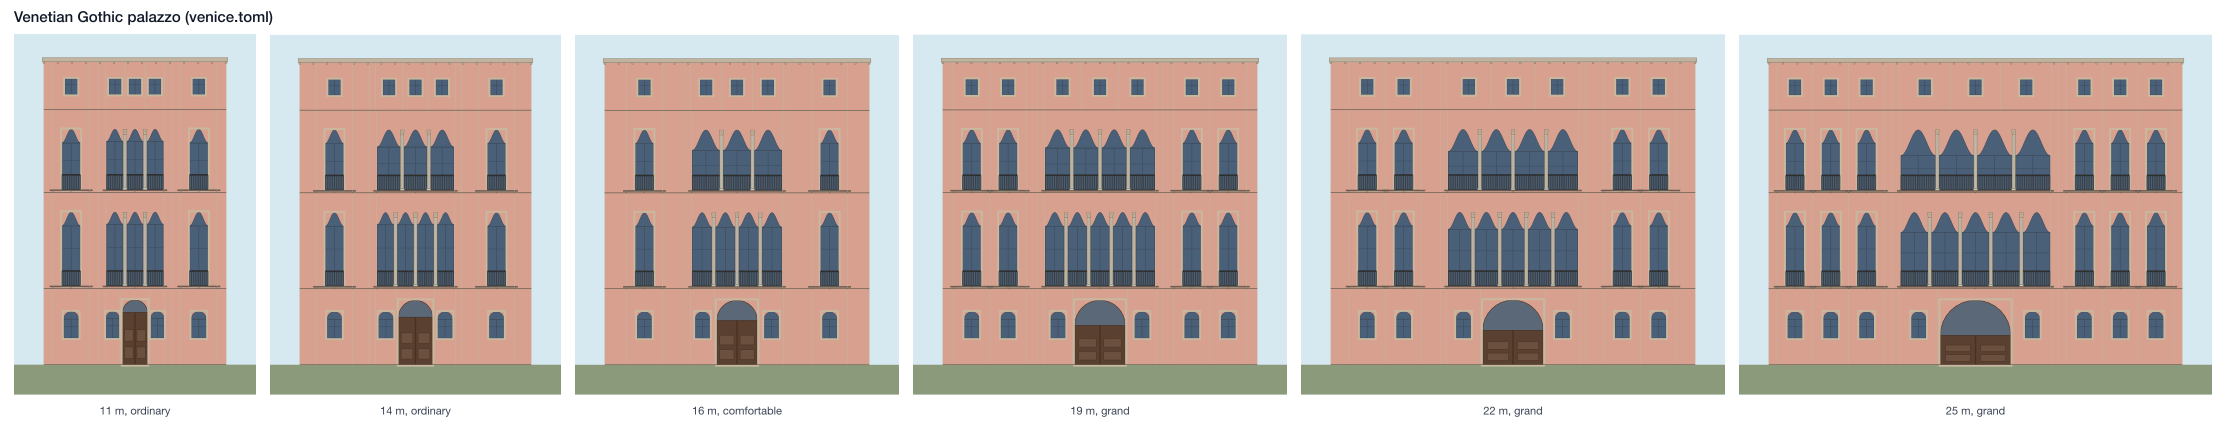
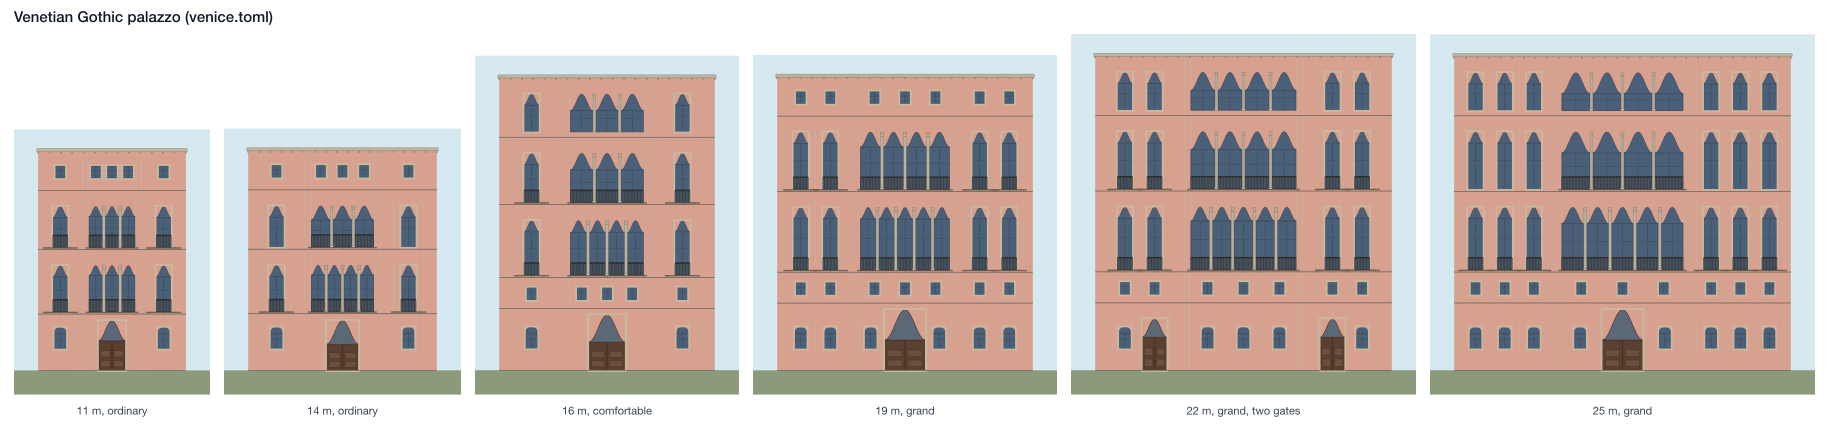
Venice: gates, floors and balconies from photographs of real palazzi
Water gates are 2 to 3 m wide under a pointed arch at any width, and a
wide front shared by two brothers has a gate in each wing. Floor heights
follow the owner's class; richer palazzi add a mezzanine and a full third
floor. Wing balconies on the second noble floor vary by family.

diff --git a/tests/unit/test_styles.py b/tests/unit/test_styles.py
@@ -54,13 +54,35 @@ def test_every_venetian_storey_is_wing_centre_wing_and_the_nobile_opens_in_a_pol
     for st in storeys:
         assert [c.label for c in st.children if c.label in ("Wing", "Centre")] == ["Wing", "Centre", "Wing"]
     building, _ = generate_venice(PalazzoSite(19.0, 1430, BuildingClass.GRAND))
-    centre_lights = [
-        sum(1 for n in walk(s) if n.kind == "opening" and "/centre/" in n.id)
-        for s in building.children
-        if s.kind == "storey"
-    ]
-    assert centre_lights[1] == 5 and centre_lights[2] == 4  # first nobile richer than the second
+    floors = [st.attrs["floor"] for st in storeys]
+    centre_lights = {
+        floor: sum(1 for n in walk(s) if n.kind == "opening" and "/centre/" in n.id)
+        for floor, s in zip(floors, (s for s in building.children if s.kind == "storey"))
+    }
+    assert centre_lights["nobile1"] == 5 and centre_lights["nobile2"] == 4  # first nobile richer than the second
     assert any(n.props.get("head") == "ogee" for n in walk(building))
+
+
+def test_a_water_gate_is_as_wide_as_a_boat_needs_and_a_shared_front_has_two():
+    def gates(site):
+        building, _ = generate_venice(site)
+        return [n.props["w"] for n in walk(building) if n.props.get("opening_type") == "pedestrian_entrance"]
+
+    for width in (11.0, 14.0, 19.0, 25.0):
+        (w,) = gates(PalazzoSite(width, 1420, BuildingClass.ORDINARY))
+        assert 1.9 <= w <= 3.0, (width, w)
+    assert len(gates(PalazzoSite(22.0, 1440, BuildingClass.GRAND, seed=1))) == 2
+
+
+def test_a_richer_palazzo_is_taller_and_has_more_floors():
+    def floors(site):
+        lot, _ = derive_venice(site)
+        return [st.attrs["floor"] for st in lot.children[0].children], lot.children[0].scope.h
+
+    small, small_h = floors(PalazzoSite(11.0, 1380, BuildingClass.ORDINARY))
+    big, big_h = floors(PalazzoSite(25.0, 1450, BuildingClass.GRAND))
+    assert small == ["water", "nobile1", "nobile2", "attic"]
+    assert big == ["water", "mezzanine", "nobile1", "nobile2", "third"] and big_h > small_h + 5
 
 
 def test_the_chicago_shaft_is_uniform_its_piers_run_through_and_its_windows_are_1_2_1():

diff --git a/dev/harness/readme_strips.py b/dev/harness/readme_strips.py
@@ -124,12 +124,12 @@ def strips():
             ("brick store-and-loft, 1890, 2 lots", generate_soho(SohoSite(2, 1890, P.LOFT, K.MODEST, seed=2))[0]),
         ]),
         "venice": ("Venetian Gothic palazzo (venice.toml)", [
-            ("11 m, ordinary", generate_venice(PalazzoSite(11.0, 1380, K.ORDINARY))[0]),
-            ("14 m, ordinary", generate_venice(PalazzoSite(14.0, 1400, K.ORDINARY))[0]),
-            ("16 m, comfortable", generate_venice(PalazzoSite(16.0, 1410, K.COMFORTABLE))[0]),
-            ("19 m, grand", generate_venice(PalazzoSite(19.0, 1430, K.GRAND))[0]),
-            ("22 m, grand", generate_venice(PalazzoSite(22.0, 1440, K.GRAND))[0]),
-            ("25 m, grand", generate_venice(PalazzoSite(25.0, 1450, K.GRAND))[0]),
+            ("11 m, ordinary", generate_venice(PalazzoSite(11.0, 1380, K.ORDINARY, seed=0))[0]),
+            ("14 m, ordinary", generate_venice(PalazzoSite(14.0, 1400, K.ORDINARY, seed=2))[0]),
+            ("16 m, comfortable", generate_venice(PalazzoSite(16.0, 1410, K.COMFORTABLE, seed=1))[0]),
+            ("19 m, grand", generate_venice(PalazzoSite(19.0, 1430, K.GRAND, seed=0))[0]),
+            ("22 m, grand, two gates", generate_venice(PalazzoSite(22.0, 1440, K.GRAND, seed=1))[0]),
+            ("25 m, grand", generate_venice(PalazzoSite(25.0, 1450, K.GRAND, seed=2))[0]),
         ]),
         "victorian": ("San Francisco Victorian (victorian.toml)", [
             ("Italianate, 1872, 25 ft", generate_victorian(VictorianSite(1872, K.ORDINARY, 0))[0]),

diff --git a/src/buildings/render/svg/elements.py b/src/buildings/render/svg/elements.py
@@ -313,7 +313,7 @@ def draw_opening(canvas: Canvas, x: float, y: float, w: float, h: float, props: 
         # hand-built node could still state one) puts the glass IN the arch
         # instead, the way a real arched doorway with a fan light over it
         # does.
-        arched = head_form in ("round", "segmental", "irregular")
+        arched = head_form in ("round", "segmental", "irregular", "ogee")
         fan_h = head_h if arched else min(head_h, max(0.22, body_w * 0.4), h)
         body_bot = y
         body_top = y + h - fan_h

diff --git a/README.md b/README.md
@@ -92,7 +92,7 @@ Six buildings from each ruleset, one scale per strip
 
 ![amsterdam](docs/strips/amsterdam.png)
 
-**Venetian Gothic palazzo** — every storey cut wing | centre | wing; the noble floor opens in a polifora of ogee lights on colonnettes -- never so many that an arch comes out under 0.95 m -- and the water gate below takes its width from the polifora.
+**Venetian Gothic palazzo** — every storey cut wing | centre | wing; the noble floors open in a polifora of ogee lights on colonnettes, never so many that an arch comes out under 0.95 m. The water gate is 2 to 3 m wide under a pointed arch, and a front shared by two brothers has one in each wing. Money sets the floor heights and adds a mezzanine over the water storey and a full third floor under the cornice; the family decides whether the second noble floor's windows get balconies.
 
 ![venice](docs/strips/venice.png)
 
